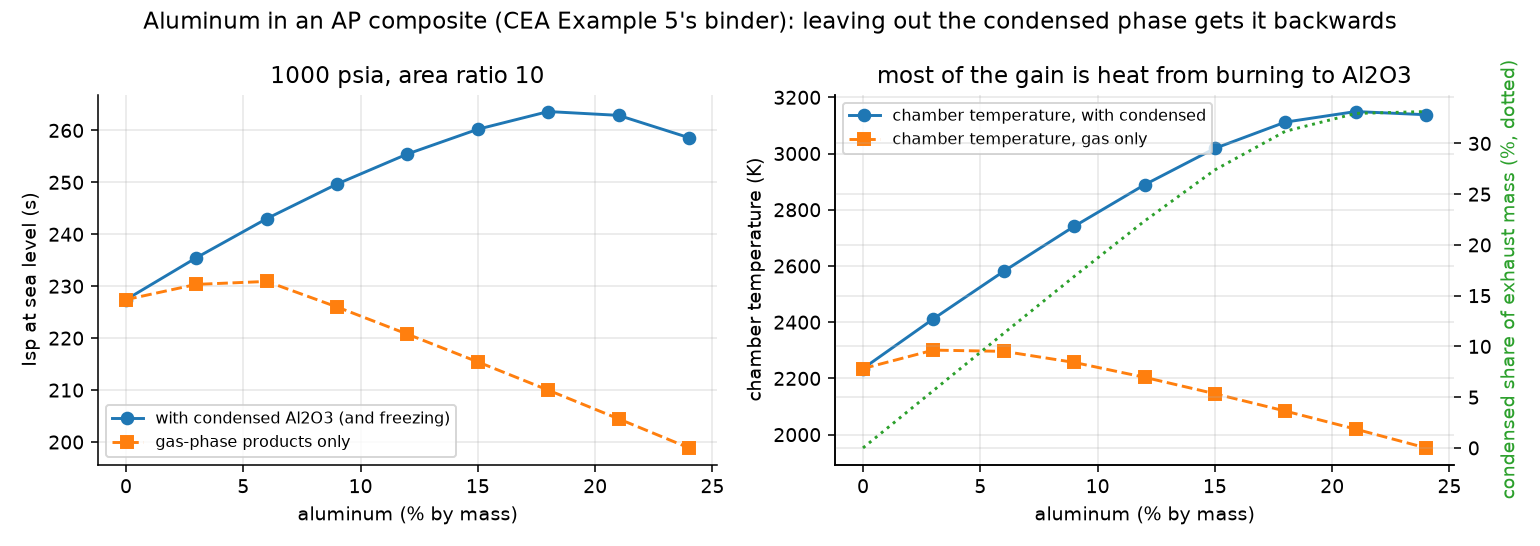
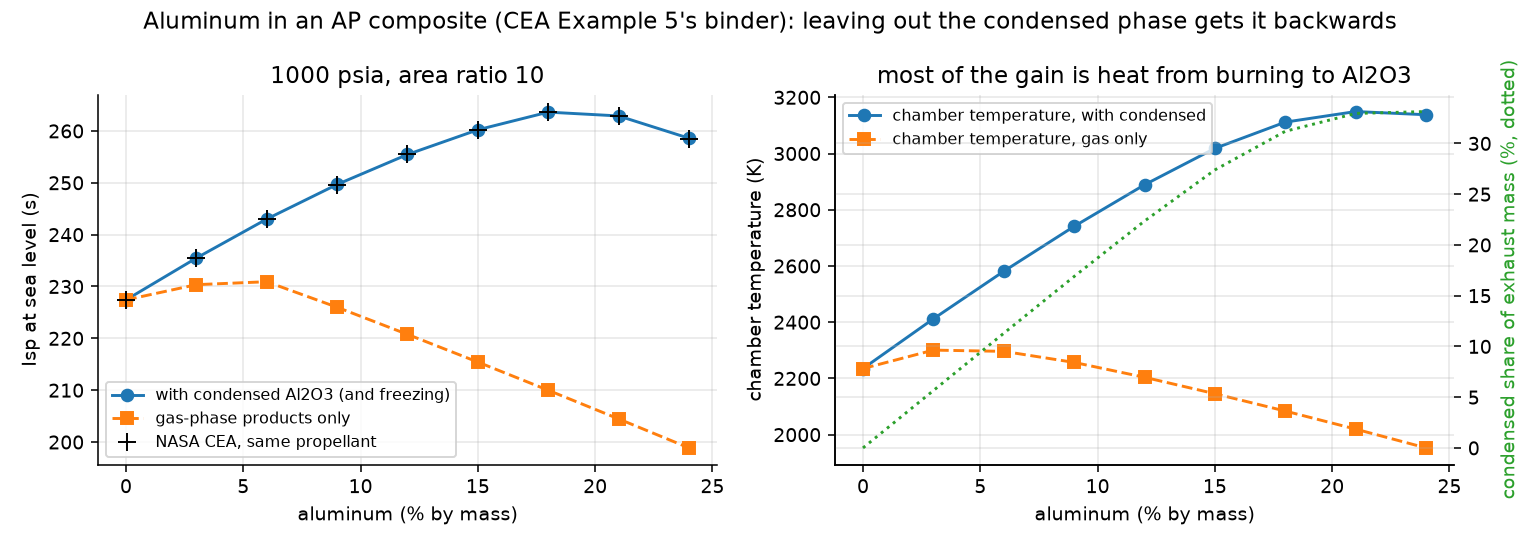
Show the NASA CEA values next to the aluminum sweep and CJ speeds
The CJ comparison now uses CEA's detonation results instead of uncited
literature numbers, and results.json records the Example 5 temperature with
and without the condensed phase that the README quotes.

diff --git a/examples/make_figures.py b/examples/make_figures.py
@@ -25,6 +25,8 @@ from hml.nozzle import bell_contour, export_nozzle_cad
 ROOT = Path(__file__).resolve().parents[1]
 FIG = ROOT / "docs" / "figures"
 RESULTS = ROOT / "docs" / "results.json"
+# NASA CEA runs of the same propellants, written by tools/cea_reference.py (also used by the tests).
+CEA = json.loads((ROOT / "tests" / "data" / "cea_reference.json").read_text())
 plt.rcParams.update({"figure.dpi": 140, "axes.grid": True, "grid.alpha": 0.3, "axes.spines.top": False,
                      "axes.spines.right": False, "font.size": 10})
 
@@ -187,6 +189,8 @@ def aluminized(results):
     fig, axes = plt.subplots(1, 2, figsize=(11, 3.9))
     axes[0].plot(al_fracs * 100, [r.isp for r in multi], "o-", label="with condensed Al2O3 (and freezing)")
     axes[0].plot(al_fracs * 100, [r.isp for r in gas_only], "s--", label="gas-phase products only")
+    axes[0].plot([r["al_pct"] for r in CEA["aluminized_1000psia_eps10"]],
+                 [r["isp_sl_s"] for r in CEA["aluminized_1000psia_eps10"]], "k+", ms=9, label="NASA CEA, same propellant")
     axes[0].set_xlabel("aluminum (% by mass)")
     axes[0].set_ylabel("Isp at sea level (s)")
     axes[0].set_title("1000 psia, area ratio 10")
@@ -212,7 +216,16 @@ def aluminized(results):
         "condensed_fraction": [round(r.condensed_fraction, 3) for r in multi],
         "best_al_pct": round(float(al_fracs[best]) * 100), "best_isp": round(multi[best].isp, 1),
         "best_al_pct_gas_only": round(float(al_fracs[best_gas]) * 100), "best_isp_gas_only": round(gas_only[best_gas].isp, 1),
+        "isp_nasa_cea": [round(r["isp_sl_s"], 1) for r in CEA["aluminized_1000psia_eps10"]],
+        "tc_nasa_cea": [round(r["Tc_K"]) for r in CEA["aluminized_1000psia_eps10"]],
     }
+    # CEA Example 5 itself at 500 psia: the CEA2 reference temperature, and what the model gets with and
+    # without the condensed phase.
+    ex5 = [(thermo.AP, 72.06), (thermo.CEA_BINDER, 18.58), (thermo.ALUMINUM, 9.0), (thermo.MGO, 0.2),
+           (thermo.WATER_LIQUID, 0.16)]
+    results["aluminized"]["cea_example5_500psia_K"] = {
+        "cea2_reference": 2722.99, "condensed": round(thermo.Equilibrium(ex5).hp(500 * 6894.757).T, 1),
+        "gas_only": round(thermo.equilibrate_hp(ex5, 500 * 6894.757).T, 1)}
 
 
 def hybrid_gox(results):
@@ -441,13 +454,12 @@ def detonation(results):
         "C2H4-air": thermo.bipropellant(thermo.AIR, thermo.C2H4, 3 * 4.76 * 28.851 / 28.054),
         "CH4-O2": thermo.bipropellant(thermo.O2, thermo.CH4, 64 / 16.043),
     }
-    literature = {"H2-O2": 2836, "H2-air": 1968, "C2H4-air": 1825}  # 1 atm, 298 K, stoichiometric
     results["cj"] = {}
     cj_h2air = None
     for name, mix in mixtures.items():
         cj = rde.cj_state(mix)
         results["cj"][name] = {"D_m_s": round(cj.D, 1), "T_K": round(cj.T2), "P_ratio": round(cj.P2 / cj.P1, 2),
-                               "literature_D": literature.get(name)}
+                               "nasa_cea_D": round(CEA["cj_1atm"][name]["D_m_s"], 1)}
         if name == "H2-air":
             cj_h2air = cj
 

diff --git a/README.md b/README.md
@@ -59,7 +59,7 @@ The paraffin/N₂O regression law comes from a McGill Rocket Team report ([arXiv
 
 ## Detonation, briefly
 
-The detonation speeds from my CJ solver land within 1 m/s of published values for H₂/O₂, H₂/air and C₂H₄/air, which was the moment I started trusting it. The interesting part is the cycle comparison. For H₂/air with no compressor at all, an ideal detonation cycle still gets about 25% thermal efficiency while a normal constant-pressure (Brayton) cycle gets zero, because the detonation does its own compression. That's the argument for RDEs in one plot.
+The detonation speeds from my CJ solver land within 1 m/s of NASA CEA's for H₂/O₂, H₂/air, C₂H₄/air and CH₄/O₂. The interesting part is the cycle comparison. For H₂/air with no compressor at all, an ideal detonation cycle still gets about 25% thermal efficiency while a normal constant-pressure (Brayton) cycle gets zero, because the detonation does its own compression. That's the argument for RDEs in one plot.
 
 <img src="docs/figures/cycle_efficiency.png" width="60%">
 
@@ -83,9 +83,9 @@ There's a catch I missed at first. My model uses one pressure for the whole cham
 
 ### Aluminum
 
-Most high-performance composite propellants are 15 to 20% aluminum powder, and my thermochemistry couldn't handle it. Aluminum burns to Al₂O₃, which is a liquid at chamber temperature, and my equilibrium only had gases. I added condensed products the way NASA's CEA does. Every solid or liquid that can form from the elements present sits next to the gas as its own phase, only within its own temperature range, and takes up no volume. Then I checked it against CEA's own Example 5, an aluminized AP propellant. My chamber temperatures land within 5 K of CEA's at all five pressures, and the product mole fractions within 1%.
+Most high-performance composite propellants are 15 to 20% aluminum powder, and my thermochemistry couldn't handle it. Aluminum burns to Al₂O₃, which is a liquid at chamber temperature, and my equilibrium only had gases. I added condensed products the way NASA's CEA does. Every solid or liquid that can form from the elements present sits next to the gas as its own phase, only within its own temperature range, and takes up no volume. Then I checked it against CEA's own Example 5, an aluminized AP propellant. My chamber temperatures land within 5 K of CEA's at all five pressures, and the product mole fractions within 1%. For the whole rocket problem, throat, exit and freezing included, I ran NASA's open-source CEA on the same sweep shown below, and my sea-level Isp lands within 0.2 s of it at every aluminum content.
 
-Leaving the liquid out is a big mistake. Without it, the aluminum has nowhere to go but gaseous chlorides, and Example 5 comes out 500 K too cold. Sweeping the aluminum content, the full model peaks at 18% (263.6 s at sea level, 16% better than no aluminum), close to the 15 to 20% real motors use. The gas-only model says the opposite: it peaks at 6% and loses performance after that. Both assume the alumina droplets keep up with the gas, which real ones don't quite, so a real motor would lose a few percent of that to two-phase flow.
+Leaving the liquid out is a big mistake. Without it, the aluminum has nowhere to go but gaseous chlorides, and Example 5 comes out 500 K too cold. Sweeping the aluminum content, the full model peaks at 18% (263.6 s at sea level, against CEA's 263.7, and 16% better than no aluminum), close to the 15 to 20% real motors use. The gas-only model says the opposite: it peaks at 6% and loses performance after that. Both assume the alumina droplets keep up with the gas, which real ones don't quite, so a real motor would lose a few percent of that to two-phase flow.
 
 ![Aluminized Isp](docs/figures/aluminized_isp.png)
 
